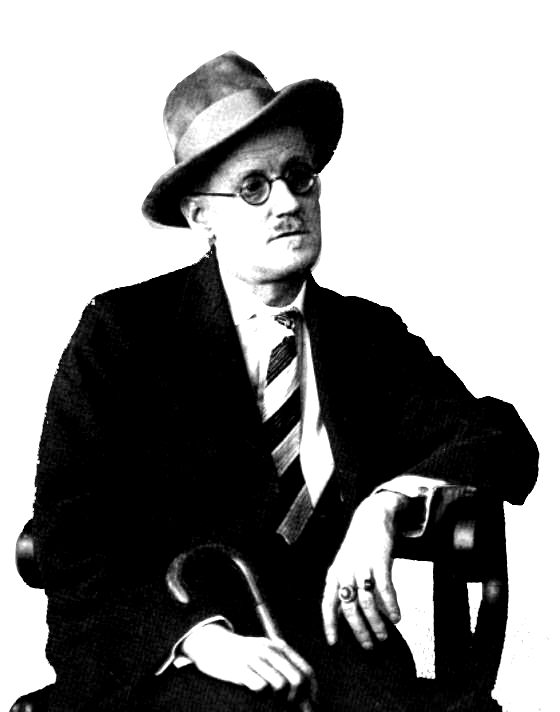
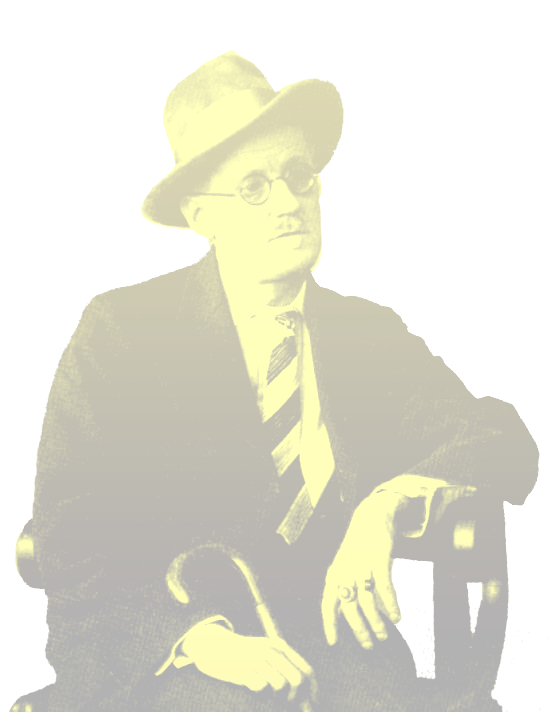
a bunch of images happened. Added nav and footer, some more UX stuff around form validating /  submit

diff --git a/js/ipsum.js b/js/ipsum.js
@@ -3,7 +3,7 @@
 //document ready is a safety precaution that makes sure all of the HTML document has loaded before we try to add behavior.
 $(document).ready(function(){
 
-// $("#paragraph-holder").hide();
+$(".error").hide();
 
 //define lorem ipsum function
 function ipsum () {
@@ -19,9 +19,9 @@ function ipsum () {
   var words = [];
 
 //Create an array of words to randomize later
-  var dubliners = ["Buck Mulligan", "Stately, plump", "mc hammer", "vanilla ice", "@withloudhands", "remote-control helicopters", "kill your idols", "github hoodie", "i don't care"];
-  var portrait = ["bob", "reginald t moneybags", "mc hammer", "vanilla ice", "@withloudhands", "remote-control helicopters", "kill your idols", "github hoodie", "i don't care"];
-  var ulysses = ["yes I said yes I will Yes", "ineluctable modality of the visible", "Love loves to love love", "stately", "plump", "Buck Mulligan", "Gerty MacDowell", "ben Bloom Elijah", "Bloom", "Stephen", "Dedalus", "Poldy", "Molly", "la ci darem la mano", "mellow", "yellow", "smellow", "melons", "kidneys", "7 Eccles Street", "Davy Byrne&rsquo;s", "burgundy", "gorgonzola", "Blazes Boylan", "night town", "seedcake", "Sandycove", "Howth Head", "Rudy", "sixteen", "and", "soft", "Sandymount strand", "like a shot off a shovel", "rhododendrons", "sweets", "Sinbad the Sailor", "Tinbad the Tailor", "love", "song", "oxen of the sun", "Penelope", "Ithaca", "Proteus", "Circe", "Sirens", "fortyfoot", "faintly scented urine", "Martha", "letter", "sixteen", "the citizen", "contransmagnificandjewbangtantiality", "Kinch"];  
+  var dubliners = ["Araby", "Eveline", "Snow"];
+  var portrait = ["Stephen", "Dedalus", "pull out his eyes, apologize", "bird"];
+  var ulysses = ["yes I said yes I will Yes", "ineluctable modality of the visible", "Love loves to love love", "stately", "plump", "Buck Mulligan", "Gerty MacDowell", "ben Bloom Elijah", "Bloom", "Stephen", "Dedalus", "Poldy", "Molly", "la ci darem la mano", "mellow", "yellow", "smellow", "melons", "kidneys", "7 Eccles Street", "Davy Byrne&rsquo;s", "burgundy", "gorgonzola", "Blazes Boylan", "night town", "seedcake", "Sandycove", "Howth Head", "Rudy", "sixteen", "and", "soft", "Sandymount strand", "like a shot off a shovel", "rhododendrons", "sweets", "cyclops", "Sinbad the Sailor", "Tinbad the Tailor", "love", "song", "oxen of the sun", "Penelope", "Ithaca", "Proteus", "Circe", "Sirens", "fortyfoot", "faintly scented urine", "Martha", "letter", "sixteen", "the citizen", "contransmagnificandjewbangtantiality", "Kinch", "Frseeeeeeeeeeeeeeeeeeeefrong"];  
   var words_all = ulysses;
 
 //ELSE IF determines which array of words to show the user
@@ -88,17 +88,12 @@ for ( var x = 0; x < words.length; x++ ) {
 //End the third FOR loop that builds and spaces paragraphs from sentence groups
     }
 
-// $("#print-paragraphs").animate({
-//   opacity: 0,
-//   top: "+=25"
-//   }, 1000, function(){
-//       $("#print-paragraphs").empty().html(paragraphs).delay(500).css("opacity", 0);
-//       $("#print-paragraphs").css("opacity", 1);
-//     }
-//   )
+//add in the ending
+paragraphs+="<p>Trieste-Zurich-Paris 1914-1921</p>";
 
+//paragraph fade-in
 function paragraphSwitch(){
-  $("#print-paragraphs").animate({top:"+=25", opacity:0},1000).queue(function(){
+  $("#print-paragraphs").animate({top:"+=25", opacity:0},600).queue(function(){
     $(this).empty().html(paragraphs);
     $(this).dequeue();
   }).animate({top:"-=25", opacity:1},1000);
@@ -114,8 +109,27 @@ return false;
 
 $("#ipsum-form").submit(function(e){
   e.preventDefault();
-  ipsum();
+  var paragraphNum = $("#paragraph_count").val();
+  if (paragraphNum === ""){
+    $(".error").fadeIn(300);
+  }else{
+    ipsum();
+    $(".error").fadeOut(300);
+  }
 });
+
+$("#paragraph_count").blur(function(){
+
+  var numbers = /^[0-9]+$/;
+
+  if ($("#paragraph_count").val().match(numbers)){
+    $("#submit").css("opacity", 1);
+    $(".error").fadeOut(300);
+  }else{
+    $(".error").fadeIn(300);
+    $("#submit").css("opacity", 0.7);
+  }
+})
 
 // $("#paragraph_count").blur(function(){
 //   ipsum();

diff --git a/index.html b/index.html
@@ -12,11 +12,37 @@
 </head>
 	
 <body>
+
+<div id="fb-root"></div>
+<script>(function(d, s, id) {
+  var js, fjs = d.getElementsByTagName(s)[0];
+  if (d.getElementById(id)) return;
+  js = d.createElement(s); js.id = id;
+  js.src = "//connect.facebook.net/en_US/all.js#xfbml=1";
+  fjs.parentNode.insertBefore(js, fjs);
+}(document, 'script', 'facebook-jssdk'));</script>
+
+
 <div class="container clearfix">
+	<div class="nav grid_12">
+		<div class="grid_4 pull-right">
+			<ul class="social">
+				<li>
+					<a href="https://twitter.com/share" class="twitter-share-button" data-url="http://joyceipsum.com/ulysses" data-text="James Joyce's Ulysses Ipsum" data-via="UlyssesIpsum">Tweet</a>
+					<script>!function(d,s,id){var js,fjs=d.getElementsByTagName(s)[0],p=/^http:/.test(d.location)?'http':'https';if(!d.getElementById(id)){js=d.createElement(s);js.id=id;js.src=p+'://platform.twitter.com/widgets.js';fjs.parentNode.insertBefore(js,fjs);}}(document, 'script', 'twitter-wjs');</script>
+				</li>
+				<li>
+					<div class="fb-like" data-href="http://www.anabeckerdesign.com" data-width="450" data-layout="button_count" data-show-faces="false" data-send="false"></div>
+				</li>
+			</ul>
+		</div>
+	</div>
 	<div class="grid_12">
 	<h1>Generate your Ulysses Ipsum</h1>
+	</div>
+	<div class="grid_12">
 		<form id="ipsum-form" action="#" method="post">
-			<label for="paragraph_count">Paragraphs:</label><input id="paragraph_count" type="text" maxlength="2" />
+			<label for="paragraph_count">Paragraphs:</label><input id="paragraph_count" type="text" maxlength="2" /><span class="error">Enter a number. How about 7?</span>
 						<!-- default choice on load -->
 						<input id="ulysses" type="radio" name="choice" value="ulysses" style="display:none" />
 						<!-- dubliners -->
@@ -33,10 +59,19 @@
 						<input id="words_all" type="radio" name="choice" value="words_all" />
 						<label for="words_all">All of it</label><br> -->
 						<!-- submit button -->
-						<input type="submit" id="submit" value="Submit" />
+						<input type="submit" id="submit" value="Generate" />
 			</form>
-		<div id="print-paragraphs"></div>
+		</div>
+		<div class="grid_12" id="print-paragraphs"></div>
 	</div>
+	<footer>
+			<div class="container clearfix">
+				<div class="grid_12">
+					<p>Made with <span class="hearts">&hearts;</span> and nerdery by <a target="_blank" href="http://www.twitter.com/ana_becker">@ana_becker</a> based on <a target="_blank" href="http://meowist.com/fi/">Flatiron Ipsum</a> by <a target="_blank"href="http://www.twitter.com/jkestler">@jkestler</a> 
+				</div>
+			</div>
+		</div>
+	</footer>
 	<script src="https://ajax.googleapis.com/ajax/libs/jquery/1.8.0/jquery.min.js"></script>
 	<script>window.jQuery || document.write('<script src="js/jquery-1.8.0.min.js"><\/script>')</script>
 	<script src="js/ipsum.js"></script>

diff --git a/css/style.css b/css/style.css
@@ -51,10 +51,11 @@ table {
 
 html{
   min-height:100%;
+  /*background:url('../images/joyce_icon_white.png') no-repeat left bottom fixed #ffff41;*/
+  background:#ffff41;
 }
 
 body{
-background-color:#ffff41;
 color:#333333;
 font-size: 62.5%;
 line-height: 1.5em;
@@ -62,8 +63,6 @@ font-weight:300px;
 font-family: 'Gentium Book Basic', serif;
 margin: 0 auto;
 min-height:100%;
-/*background:url('../images/joyce.png') no-repeat left bottom #ffff41;*/
-background-position:fixed;
 }
 
 header {
@@ -85,22 +84,32 @@ line-height: 1.5em;
 margin-bottom: 1em;
 }
 
-p{
-  font-size:1.8em;
-  line-height:1.8em;
+p, span{
+  font-size:1.9em;
+  line-height:2em;
   color:#555555;
   margin-bottom:1em;
 }
 
+span.error{
+  color:tomato;
+  font-size:1.5em;
+  margin-left:20px;
+}
+
+.nav{
+  margin:1em 0 3em;
+  border-bottom:1px solid rgba(0,0,0,0.2);
+}
+
 .container{
-  margin-top:4em;
-  max-width:65em;
+  max-width:60em;
 }
 
 
 label{
-  font-size:1.8em;
-  line-height:1.8em;
+  font-size:1.9em;
+  line-height:2em;
 }
 
 #print-paragraphs {
@@ -123,6 +132,7 @@ input#paragraph_count{
   width:35px;
   font-size:1.8em;
   font-family:'Gentium Book Basic', serif;
+  text-align:center;
 }
 
 input:focus{
@@ -136,17 +146,45 @@ strong {
 
 
 #submit {
-    background-color: #555555;
+    background-color: tomato;
     border: medium none;
     border-radius: 4px;
     color: #F2F2F2;
     font-size: 1.5em;
     margin-top: 1em;
-    padding: 1em;
+    padding: 0.8em;
     font-family:'Gentium Book Basic', serif;
     display: block;
+    opacity:0.7;
+    transition:all 0.5s ease-in-out;
 }
 
+#submit:hover{
+  opacity: 1;
+  background-color: tomato;
+}
 
+.joyce-holder{
+  text-align:center;
+  opacity: 0.5;
+}
 
+footer{
+  width:100%;
+  color: #fff;
+  position: relative;
+  bottom: 0px;
+}
+
+footer p, span{
+  font-size:1.3em;
+}
+
+footer a{
+  color: tomato;
+}
+
+footer span.hearts{
+  color: tomato;
+}
 
